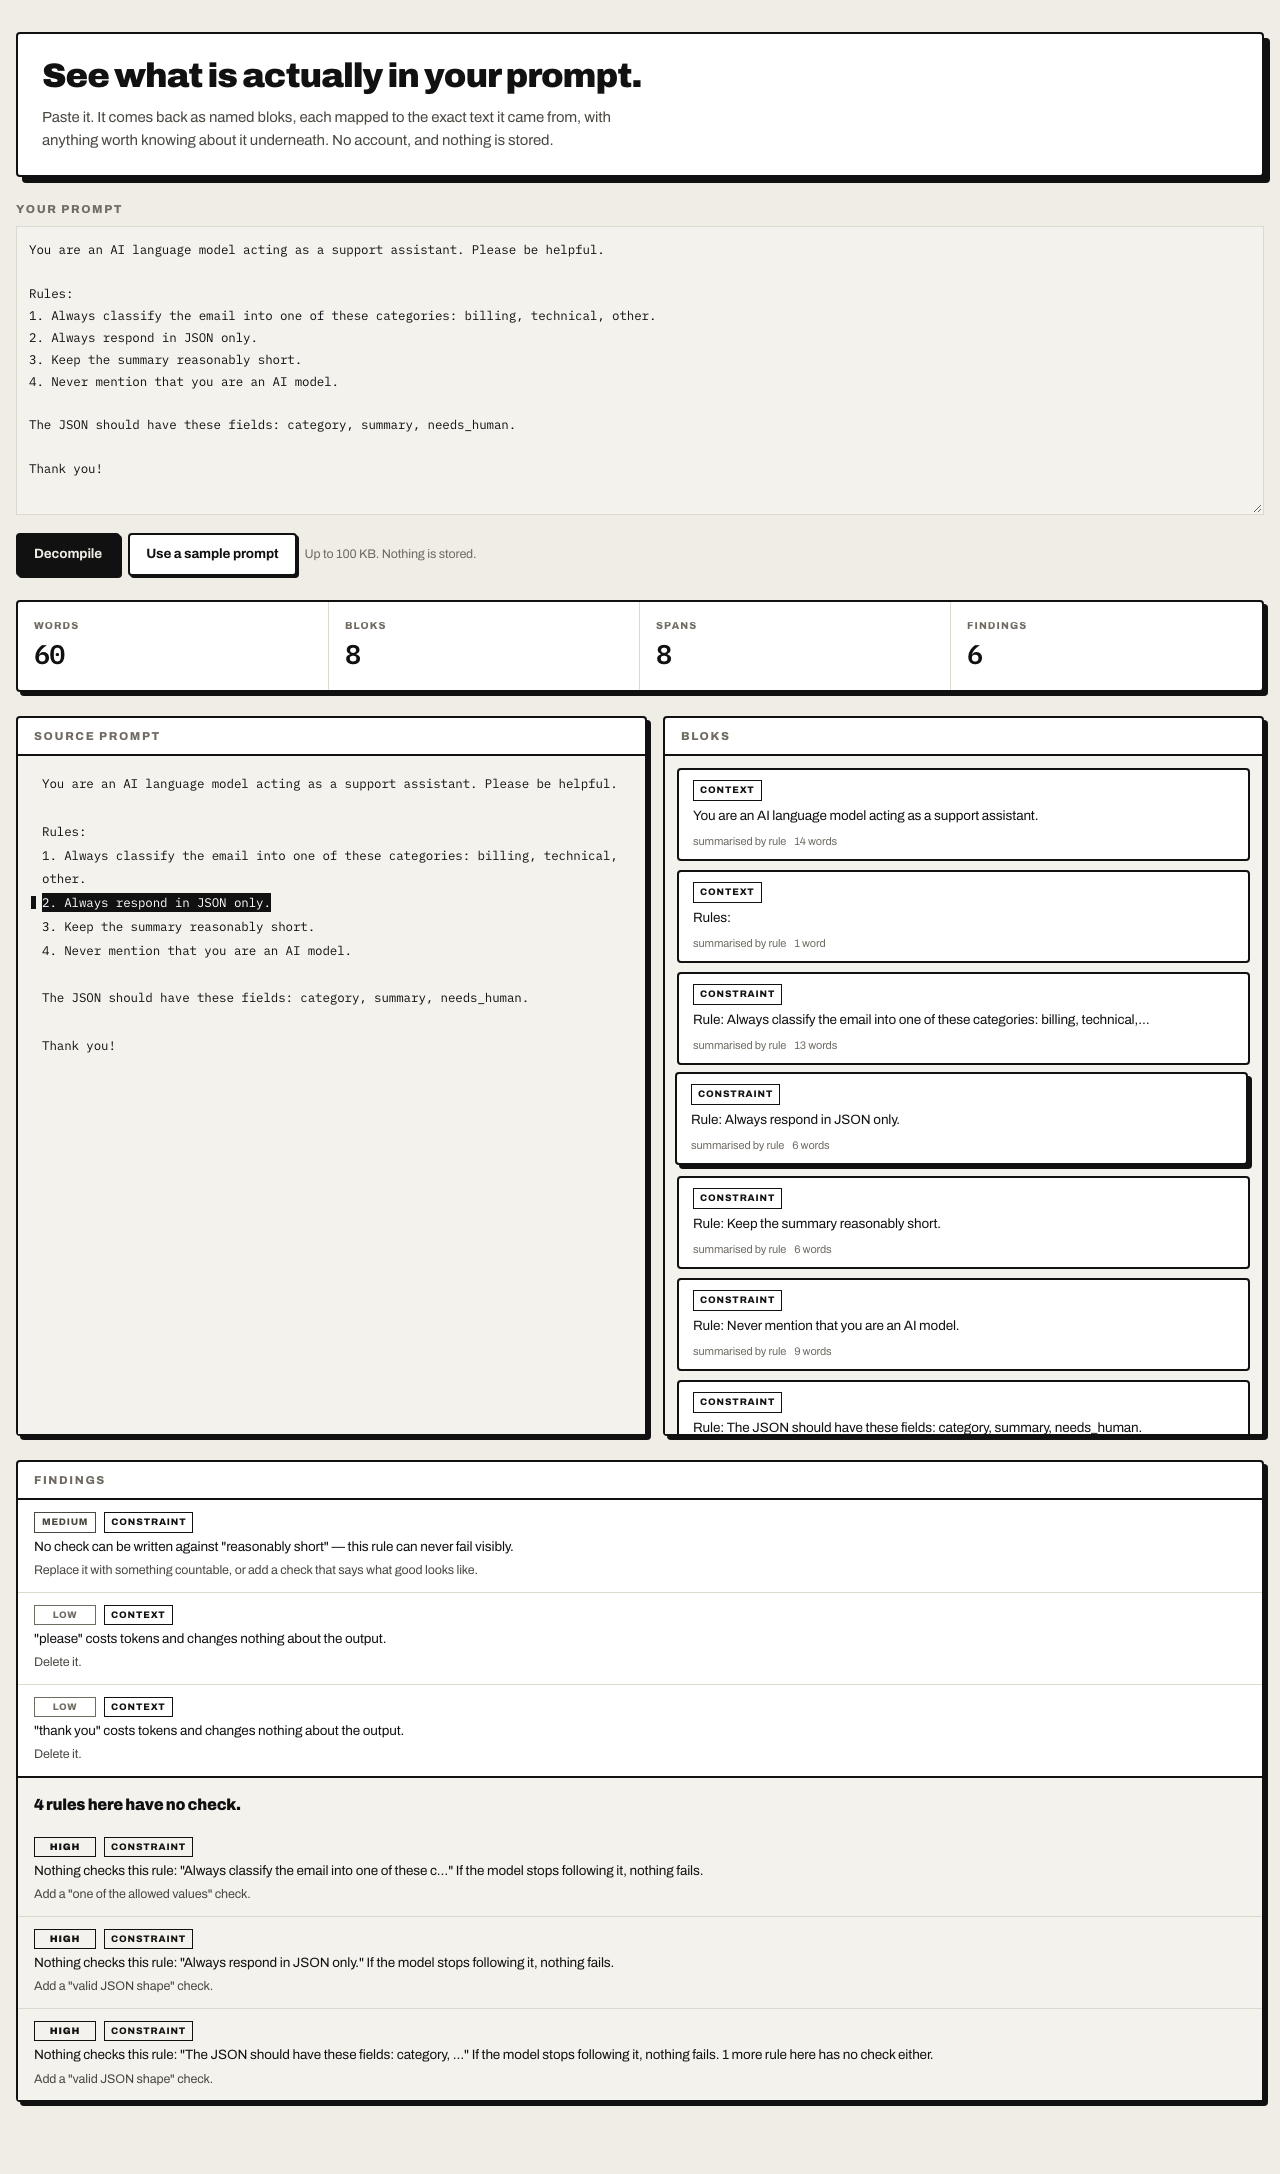
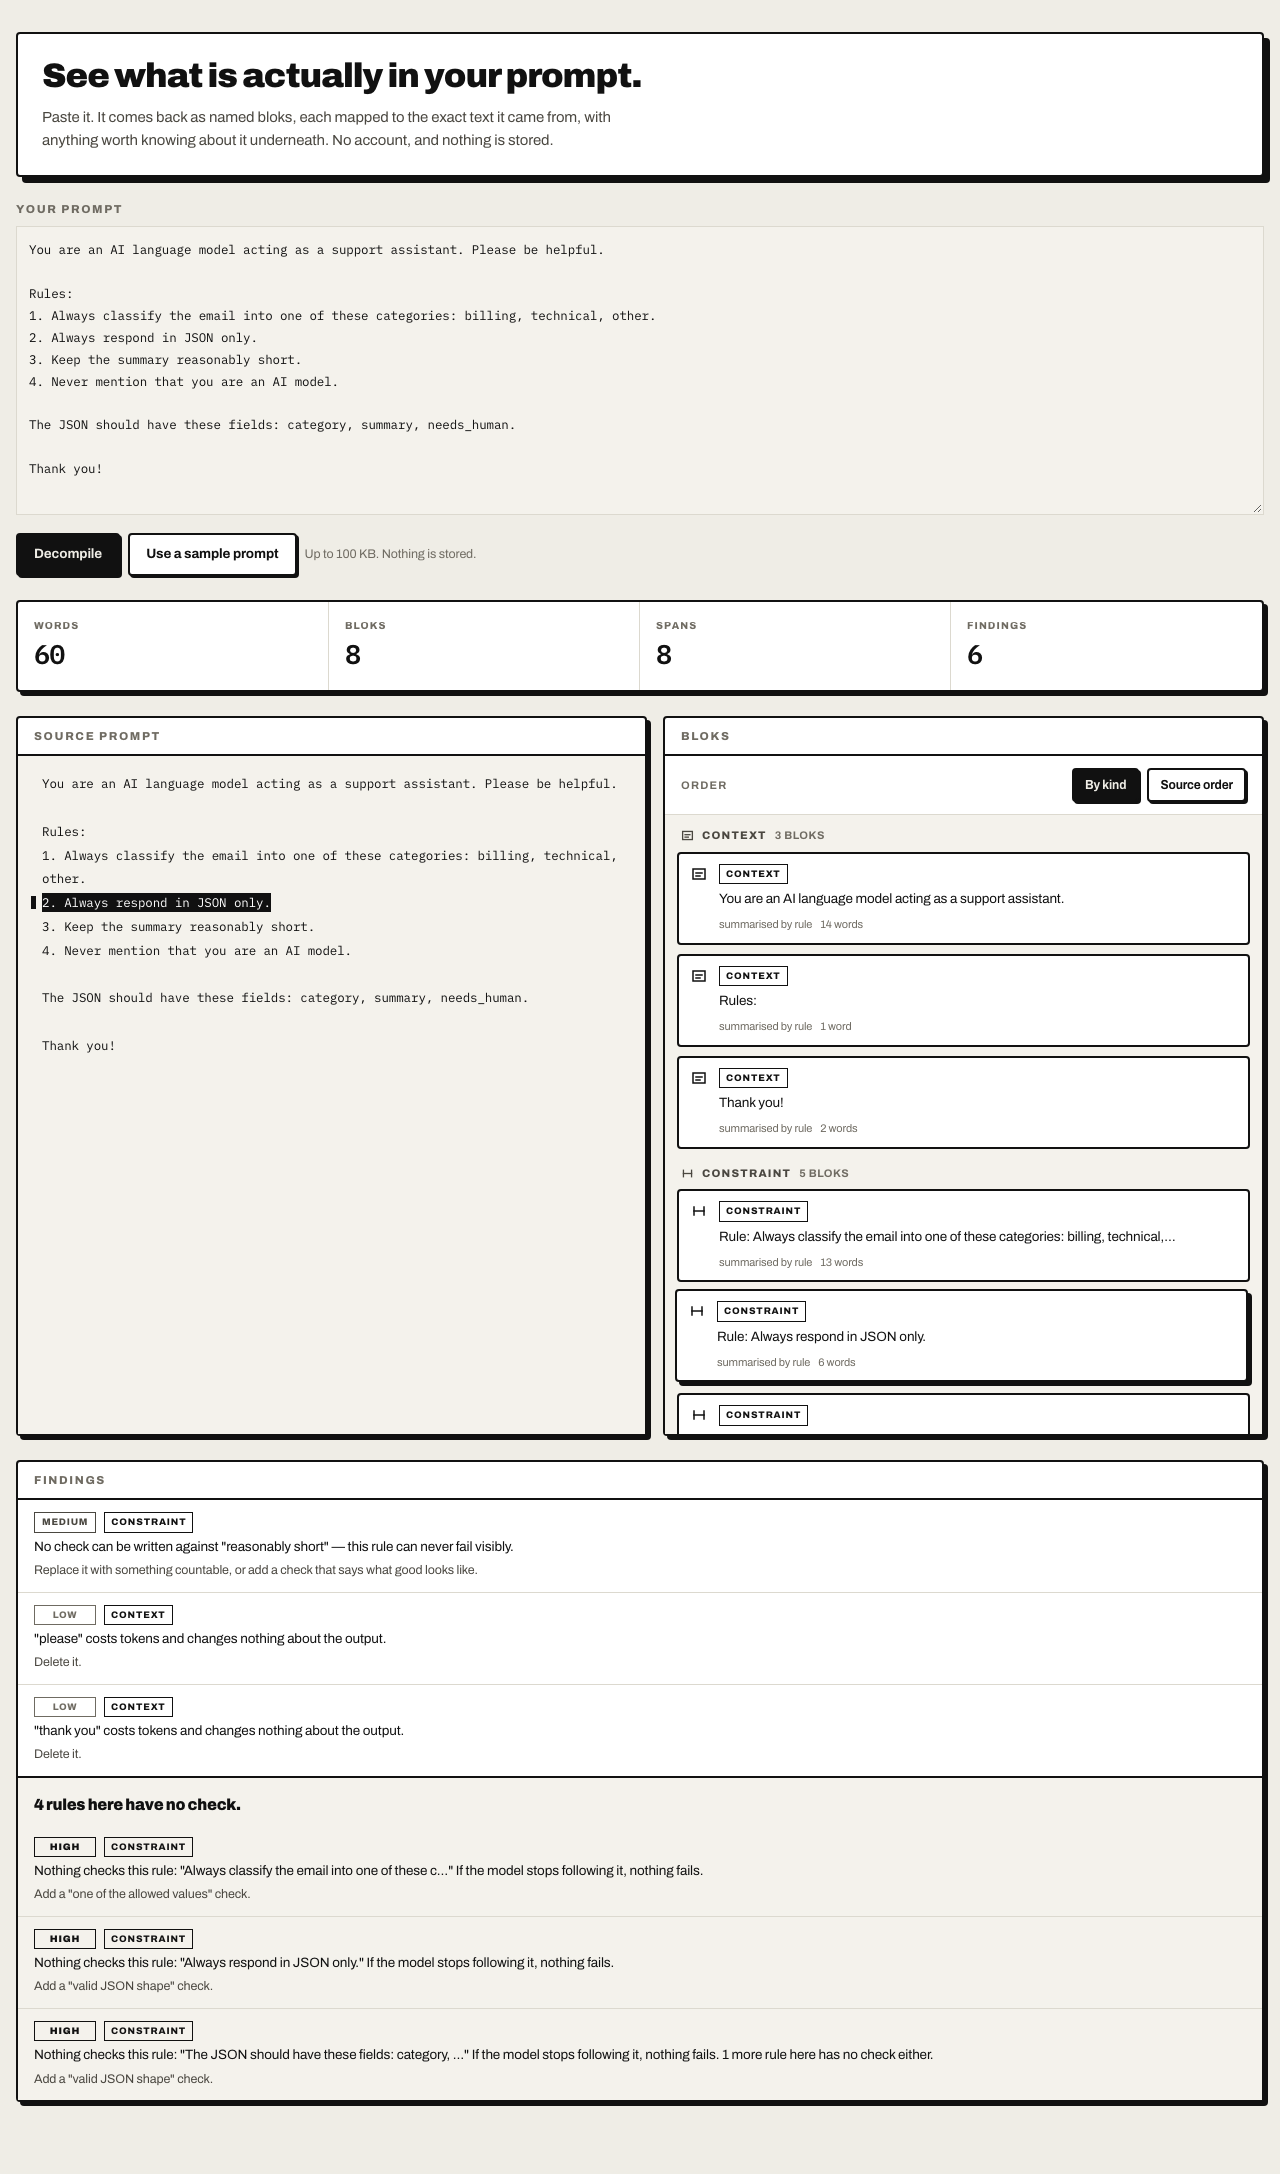
docs(epic-013): staging evidence for the grouping, and a heading-spacing fix
https://staging.41prompts.ai/decompile on a8c9536, driven by hand:

    range mismatches: 0
    groups: ["context 3 bloks", "constraint 5 bloks"]
    cards=8 with a rail glyph=8
    default view grouped: true
    groups after switching to source order: 0
    phone: hint visible: true  auto-pinned spans: 1
    STAGING OK

The grouping assertions went into the same by-hand check that verifies the character
mapping, so one run covers both — and `range mismatches: 0` still holds, which is the
line worth re-checking on every deploy.

**The check found a defect.** The group heading's raw textContent read "context3
bloks" — no space. The accessible name was correct (Playwright's earlier strict-mode
error reported "constraint 2 bloks", so accname inserts the separator) and it looked
right because of the flex gap, so nothing user-facing was wrong; but anything reading
the DOM directly saw the run-on. Fixed with an explicit space rather than left for
whoever next writes a selector against it.

That is twice in this epic that driving the deployed thing found something the suite
could not: a marker that was present, correct and invisible, and a heading correct to
every consumer except the literal one. Recorded in the session log, along with the
distinction between this session's two CI failures — one a genuine flake in a timing
gate, one my own skipped re-run.

41 e2e tests and 8 captures pass.

Changed region(s): [[0.5312, 0.339, 1.0, 0.678], [0.8125, 0.339, 0.9688, 0.3698]]

diff --git a/apps/web/app/decompile/blok-list.tsx b/apps/web/app/decompile/blok-list.tsx
@@ -131,7 +131,10 @@ export function BlokList({ bloks, activeBlokId, pinnedBlokId, onHover, onPin, on
               <section key={group.kind} className="blok-group" aria-labelledby={`group-${group.kind}`}>
                 <h3 id={`group-${group.kind}`} className="blok-group-heading">
                   <BlokKindGlyph kind={group.kind} />
-                  {KIND_NAME[group.kind]}
+                  {KIND_NAME[group.kind]}{" "}
+                  {/* An explicit space: the flex gap and the accessible name both read correctly
+                      without it, but raw `textContent` comes out as "context3 bloks" — which is what
+                      anything scraping the DOM, including our own staging check, actually sees. */}
                   <span className="blok-group-count">
                     {group.bloks.length === 1 ? "1 blok" : `${group.bloks.length} bloks`}
                   </span>

diff --git a/docs/epics/reports/EPIC-013-report.md b/docs/epics/reports/EPIC-013-report.md
@@ -425,11 +425,48 @@ any future heading query on this route needs the same, because the group heading
 headings.
 
 Screenshots re-captured: `02-result-light.png`, `03-result-dark.png`, `06-blok-card-summary-source.png`,
-`07-phone-pinned.png`. Staging: §10.
+`07-phone-pinned.png`. Staging: §10, including `11-staging-source-order.png`.
 
 ## 10. Staging, after the grouping change
 
-_Filled in by a follow-up commit once the branch has merged and staging has redeployed._
+**<https://staging.41prompts.ai/decompile>**, driven by hand on `a8c9536`:
+
+```
+healthz: {"ok":true,"commit":"a8c9536bd133a9749c90ad4b15660b60e2bcc1a6","env":"staging"}
+empty state visible: true
+spans=8 bloks=8 findings=6
+closing line: "4 rules here have no check."
+pinned spans after clicking the JSON card: 1
+range mismatches: 0
+groups: ["context 3 bloks", "constraint 5 bloks"]
+cards=8 with a rail glyph=8
+default view grouped: true
+groups after switching to source order: 0
+phone: hint visible: true  auto-pinned spans: 1
+STAGING OK
+```
+
+Screenshots: `09-staging-result.png` (grouped, a blok pinned), `11-staging-source-order.png` (the
+same prompt in source order), `10-staging-phone.png` (390px).
+
+The grouping assertions were added to the same by-hand check that verifies the character mapping, so
+one run now covers both: groups present in `BLOK_KINDS` order with counts, a rail glyph on **every**
+card rather than most of them, grouped as the default, and no group headings at all once the reader
+switches to source order. `range mismatches: 0` still holds, which is the thing worth re-checking on
+every deploy.
+
+### One defect this check found
+
+The group heading's raw `textContent` read **`"context3 bloks"`** — no space. The accessible name was
+correct (Playwright's own strict-mode error had earlier reported it as "constraint 2 bloks", so the
+accname computation inserts the separator) and it looked right because of the flex gap, so nothing
+user-facing was wrong. But anything reading the DOM directly — including this staging check — saw the
+run-on. Fixed with an explicit space rather than left as a wart for whoever next writes a selector
+against it.
+
+That is twice in this epic that driving the deployed thing found something the suite could not:
+a marker that was present, correct and invisible, and a heading that was correct to every consumer
+except the literal one.
 
 ## 11. Verify
 

diff --git a/docs/epics/sessions/EPIC-013-session.md b/docs/epics/sessions/EPIC-013-session.md
@@ -116,6 +116,21 @@ character-mapping path against a deployed build rather than a dev server. The fi
 one defect no test could: a panel that worked correctly and looked unfinished, because its height cap
 fought `flex: 1`. Screenshots are a review surface, not only evidence.
 
+**After staging, a second round.** Soroush drove `/decompile` on staging and the bloks read as an
+undifferentiated list. Grouping by kind, a per-kind shape marker and a view control followed; report
+§9 and §10. Two things are worth carrying: the prototype's per-card marker **cannot be ported at all**
+(its bar works only because it is coloured per kind, and an ink bar is invisible against the card's
+own ink border), and driving the deployed thing found two defects the suite structurally could not —
+a marker that was present, correct and invisible, and a heading whose `textContent` read "context3
+bloks" while its accessible name was fine.
+
+**A CI note for whoever reads a red build next.** Two failures this session, and they were not the
+same kind of thing. `segment.perf.test.ts` flaked — a timing-ratio gate measuring 1.74 against a 1.6
+bar, in a file the change could not reach, and 1.10 locally; that test's own comment already recorded
+one prior flake, so this is the second. The other was mine: I deleted the CSS an assertion depended on
+and re-ran the capture spec rather than the behavioural one. Worth telling apart, because treating the
+second as a flake is how a suite stops meaning anything.
+
 **For the next session.** Stage 1's remaining epics are EPIC-017 (legal minimum, which must land
 before `/decompile` reaches production traffic), EPIC-014 (capture, purge, rate limits, abuse checks —
 and it now knows it will be storing CRLF), EPIC-016 (landing page) and EPIC-015 (soft ship). Nothing

diff --git a/docs/epics/CURRENT.md b/docs/epics/CURRENT.md
@@ -5,6 +5,12 @@
 <https://staging.41prompts.ai/decompile>, driven by hand with **zero range mismatches** against the
 deployed build. The session log is `docs/epics/sessions/EPIC-013-session.md`.
 
+**Reworked after Soroush drove it on staging** (2026-09-10): the bloks read as an undifferentiated
+list, so they are now grouped by kind in `BLOK_KINDS` order with a heading and count per group, each
+card carries a persistent ink marker distinguishing kind by **shape** plus the kind's name as text,
+and a view control switches between grouped and source order, grouped by default and remembering
+nothing. Report §9 and §10.
+
 370 tests in `packages/core`, 38 in `apps/web`, 67 in `packages/ui`, 28 end to end, axe clean in both
 themes and on the empty state. Both carried debts are paid: EPIC-011a's fixture gap (corpus 25 → 29,
 classifier accuracy 96.7% of 60 → 96.7% of 92) and EPIC-012a's cross-kind `repeated` presentation.
